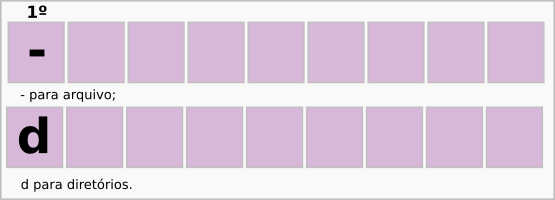
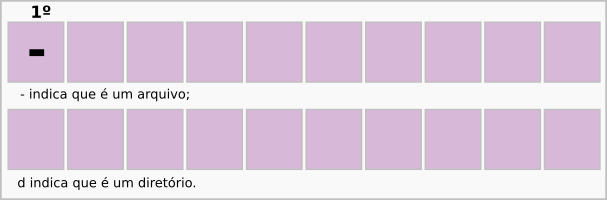
corrigindo imagens

diff --git a/linux/p0031_permissoes.md b/linux/p0031_permissoes.md
@@ -31,4 +31,9 @@ As permissões são descritas com uma sequência de 10 caracteres.
 
 ![rw](img/p0031-3.png)
 
+![r](img/p0031-4.png)
+
+- O quinto, sexto e sétimo itens são referentes as permissões do grupo ao qual o arquivo pertence:
+
+![todas as permissões para o grupo](img/p0031-5.png)
 
